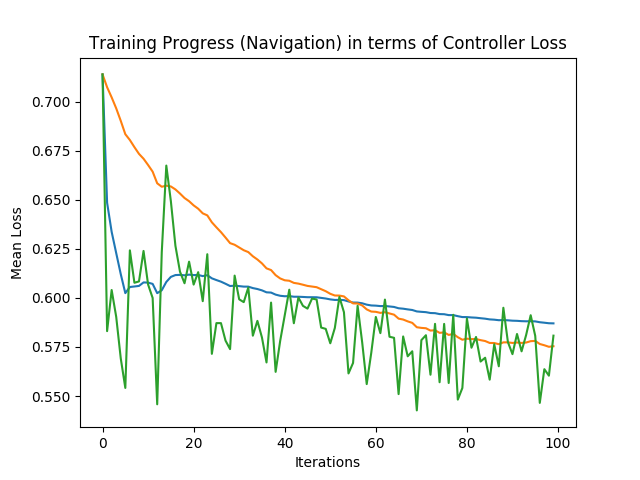
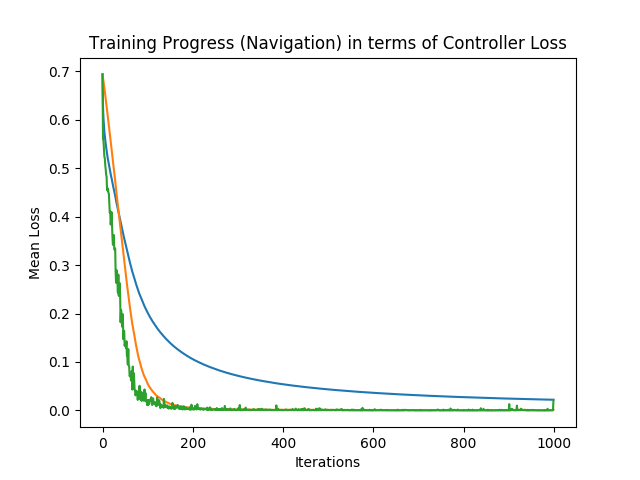
More Plot Twists

diff --git a/embQA/training/logs/05_06/nav/pyplotting.py b/embQA/training/logs/05_06/nav/pyplotting.py
@@ -7,7 +7,7 @@ iters = []
 stat = []
 stat1 = []
 
-config = json.loads(open('10_30_03:50_pacman/train_1.json').read())
+config = json.loads(open('10_30_04:12_pacman/train_1.json').read())
 
 
 statistics = config['stats']
